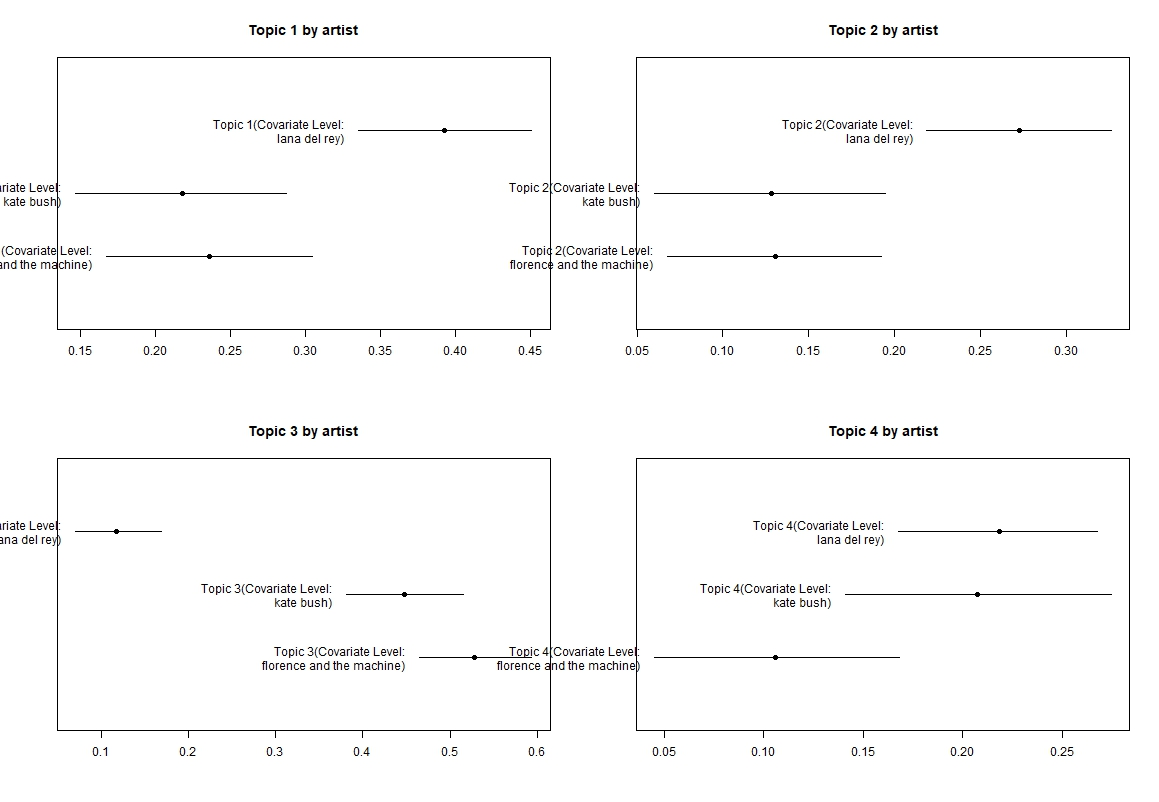
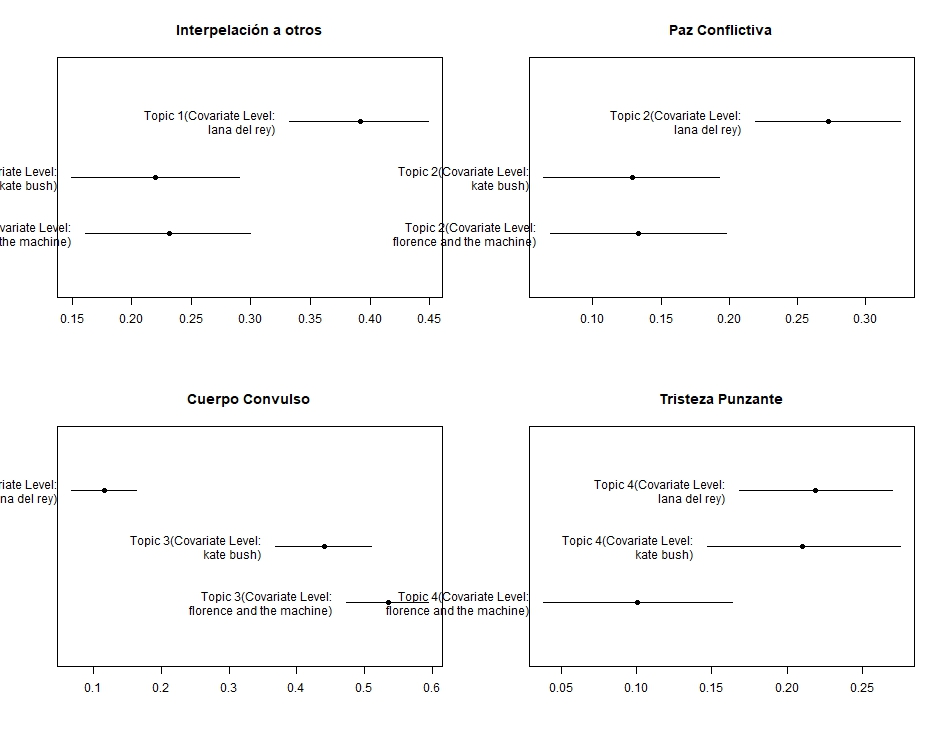
imagenes

diff --git a/README.md b/README.md
@@ -221,7 +221,8 @@ stm_model4 <- stm(
 etiquetas4 <- labelTopics(stm_model4, n = 7)
 print(etiquetas4)
 ```
-A continuación se presentan los resultados y una propuesta propia de como nombrar cada tópico
+A continuación se presentan los resultados **y una propuesta propia de como nombrar cada tópico**
+
 - Frex es frecuencia y exclusividad, palabras que son mas exclusivas de este topico,implica un 50% de frecuencai y 50% de exclusividad
 
 - Lift distingue palabras que tienen mas probabilidad de aparecer en este topico que en otro
@@ -273,7 +274,32 @@ A continuación se presentan los resultados y una propuesta propia de como nombr
 
 *Nota: Las palabras están presentadas en orden de relevancia según cada métrica específica.*
 
+Aprovechadno la capacidad de considerar covariables, poder ver que tan presente es cada tópico en cada album
 
+```r
+prep_album <- estimateEffect(
+  1:4 ~ album ,
+  stm_model4,
+  meta = out$meta,
+  uncertainty = "Global"
+)
+
+
+par(mfrow = c(2, 2))
+plot(prep_album , covariate = "album", topics = 1, model = stm_model4, main = "Topic 1 by Album")
+plot(prep_album , covariate = "album", topics = 2, model = stm_model4, main = "Topic 2 by Album")
+plot(prep_album , covariate = "album", topics = 3, model = stm_model4, main = "Topic 3 by Album")
+plot(prep_album , covariate = "album", topics = 4, model = stm_model4, main = "Topic 4 by Album")
+```
+
+**El problema con estos graficos es que se ven muuuy saturados**
+
+
+**UNA MEJOR ALTERNATIVA** (y mas informativa) es ver que tan improtante es presente es cada tópico en cada artista
+
+```r
+
+```
 
 
 </details>
